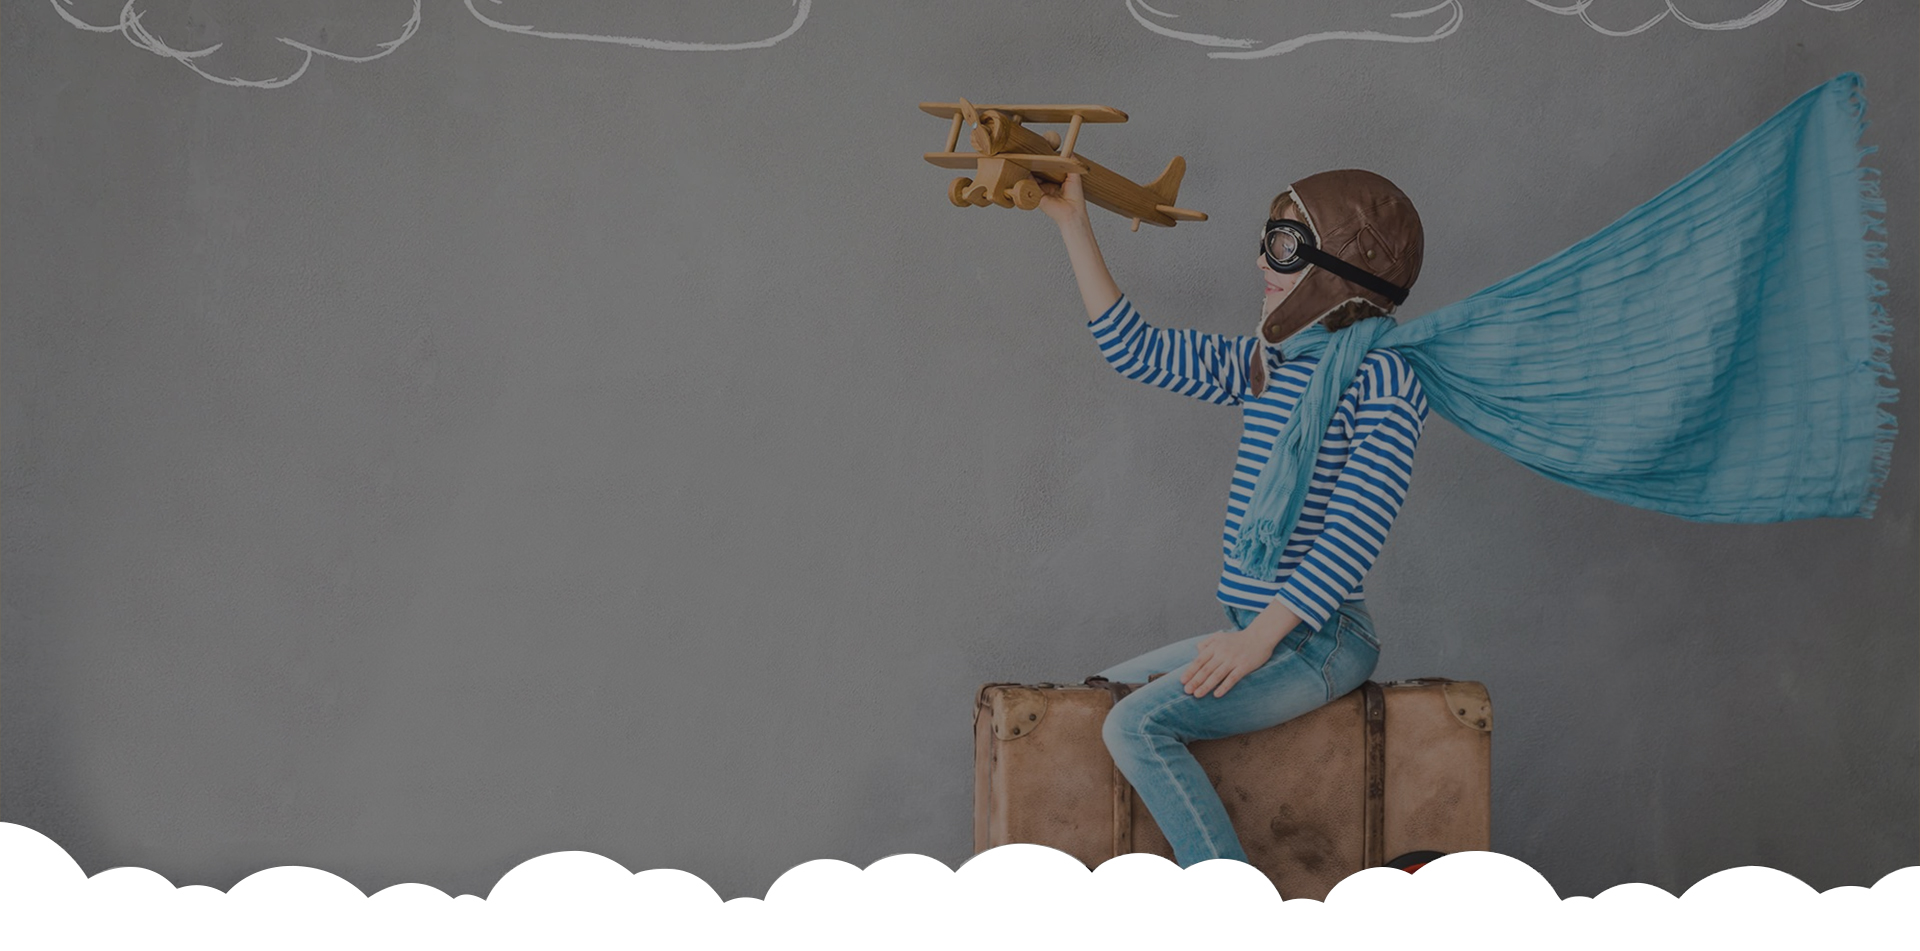
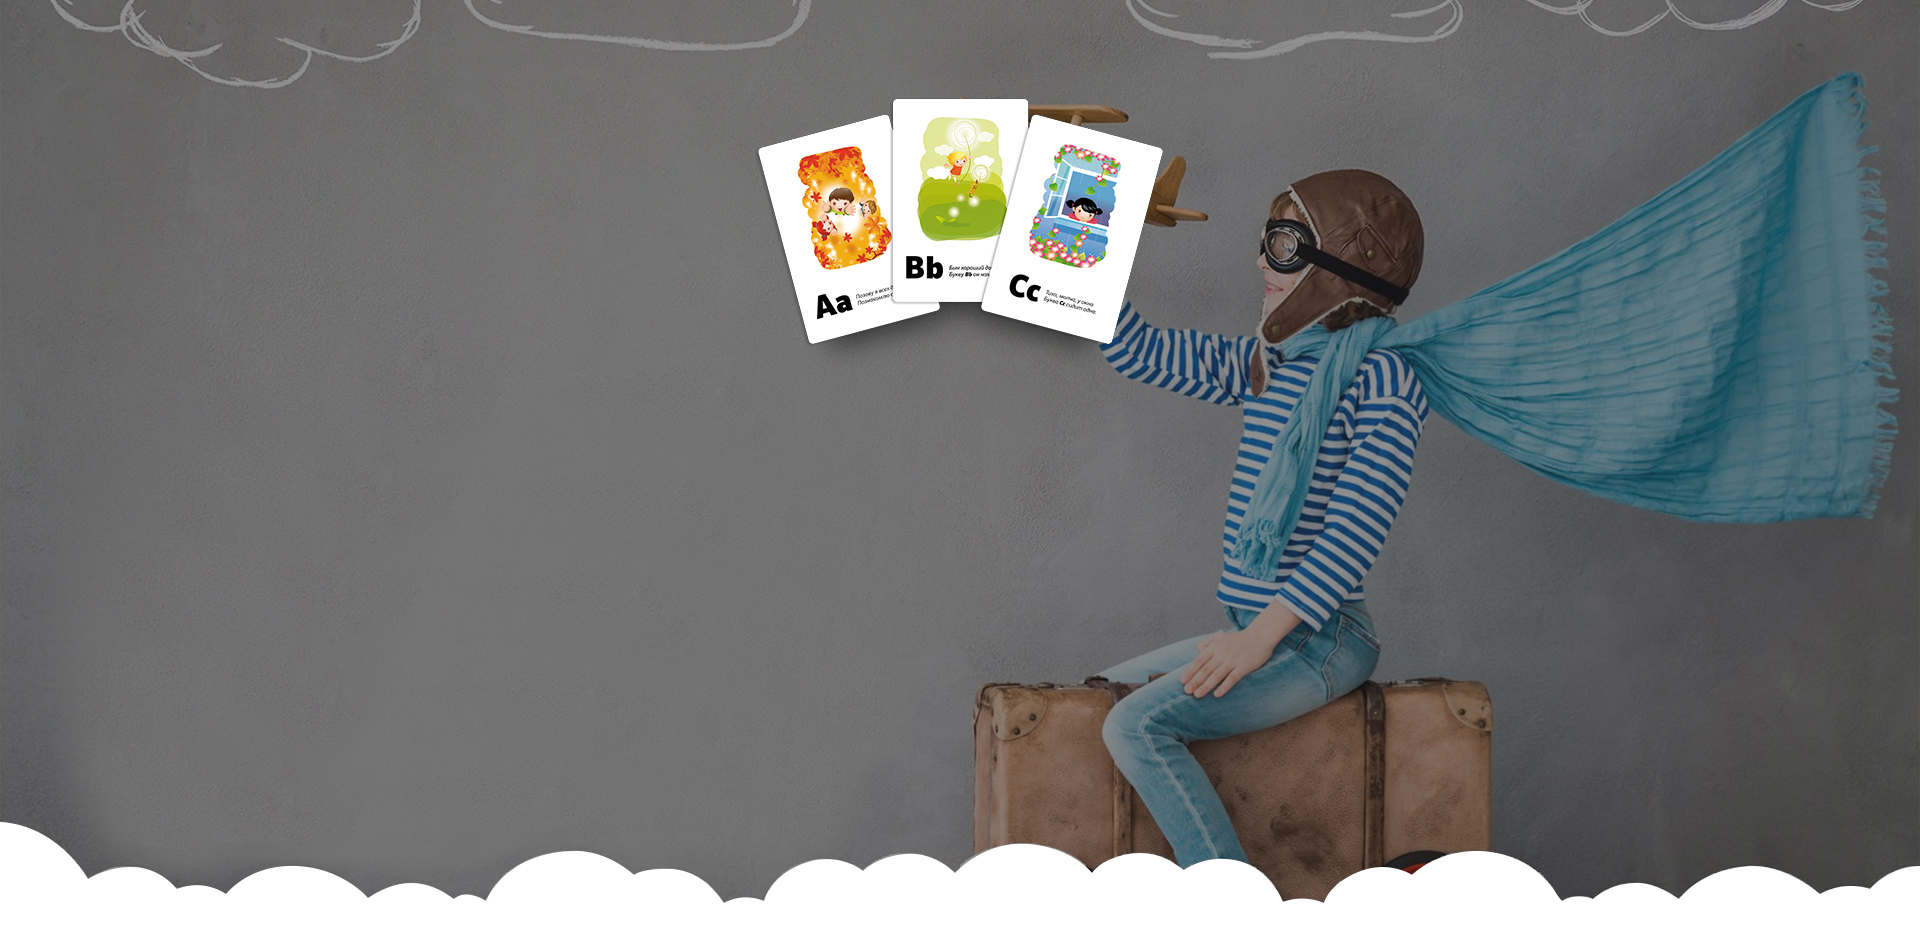
good-order--cards

Changed region(s): [[0.375, 0.0915, 0.625, 0.3659]]

diff --git a/styles/styles.css b/styles/styles.css
@@ -401,21 +401,13 @@ button[disabled="disabled"] {
 
 .good-name--cards {
   min-height: 951px;
-  padding-top: 98px;
+  padding-top: 384px;
 }
 
 .good-name--vitamins {
   min-height: 531px;
   text-align: left;
   padding-top: 105px;
-}
-
-.good-name--cards img {
-  width: auto;
-  max-width: 409px;
-  height: auto;
-  max-height: 281px;
-  margin-bottom: 11px;
 }
 
 .good-name h1 {
@@ -867,7 +859,6 @@ button[disabled="disabled"] {
 }
 
 .good-description--cards {
-  /* min-height: 780px; */
   padding-bottom: 9px;
 }
 
@@ -920,8 +911,8 @@ button[disabled="disabled"] {
 
 .good-description__picture {
   position: absolute;
-  bottom: -268px;
-  left: calc(50% - 365px);
+  bottom: -339px;
+  left: calc(50% - 390px);
   display: block;
   width: 730px;
   z-index: 2;
@@ -930,7 +921,7 @@ button[disabled="disabled"] {
 .good-description__picture img {
   width: auto;
   height: auto;
-  max-width: 730px;
+  max-width: 781px;
 }
 
 /* Good reviews */
@@ -1079,6 +1070,13 @@ button[disabled="disabled"] {
   padding-bottom: 49px;
 }
 
+.good-order--cards {
+  padding-top: 314px;
+  padding-bottom: 67px;
+  background-repeat: no-repeat;
+  background-position: 50% bottom;
+}
+
 .container--order {
   width: 1340px;
 }
@@ -1102,6 +1100,17 @@ button[disabled="disabled"] {
   background-color: #fff;
 }
 
+.good-order--cards .good-order__offer {
+  padding-top: 125px;
+  padding-bottom: 50px;
+  border-top-left-radius: 0;
+  border-bottom-left-radius: 0;
+  border-top-right-radius: 0%;
+  border-bottom-right-radius: 0%;
+  background-color: transparent;
+  color: #55476e;
+}
+
 .good-order__offer::after {
   position: absolute;
   top: 0;
@@ -1113,6 +1122,10 @@ button[disabled="disabled"] {
   background-color: #fff;
   border-radius: 50%;
   z-index: 0;
+}
+
+.good-order--cards .good-order__offer::after {
+  display: none;
 }
 
 .good-order__offer h3 {
@@ -1239,9 +1252,29 @@ button[disabled="disabled"] {
   z-index: 1;
 }
 
+.good-order--cards .offer-counter__text,
+.good-order--cards .offer-counter__content {
+  color: #55476e;
+}
+
+.good-order--cards .offer-counter__content {
+  position: absolute;
+  top: 5px;
+  right: -478px;
+  width: 65px;
+  font-size: 14px;
+  line-height: 18px;
+  text-align: left;
+  margin-top: 0;
+}
+
 .good-order__form {
   width: 580px;
   padding-top: 19px;
+}
+
+.good-order--cards .good-order__form {
+  padding-top: 105px;
 }
 
 .good-order__form-block {
@@ -1258,6 +1291,14 @@ button[disabled="disabled"] {
 .good-order__form h3 {
   text-align: left;
   margin-bottom: 16px;
+}
+
+.good-order--cards .good-order__form h3 {
+  position: absolute;
+  top: 0;
+  left: 0;
+  width: 100%;
+  text-align: center;
 }
 
 .good-order__form h3 > span {

diff --git a/pages/good-cards.html b/pages/good-cards.html
@@ -36,7 +36,6 @@
 
   <section class="good-name good-name--cards" id="good-name" style="background-image: url('../images/cards/bg.jpg');">
     <div class="container">
-      <img src="../images/cards/good_image.png" alt="Обучающие карточки">
       <h1>Обучающие карточки <span class="br">для изучения английского алфавита</span></h1>
       <p>Настольная игра &laquo;Алфавит English&raquo; для детей от&nbsp;2&nbsp;до&nbsp;8&nbsp;лет. <span class="br">Дети выучат буквы и&nbsp;хорошенько потренируют память. Приятное и&nbsp;увлекательное знакомство с&nbsp;буквами.</span></p>
       <p class="good-name__price"><strong>671 руб</strong><span class="good-name__discount">790 руб</span></p>

diff --git a/styles/color_themes/color-theme_orange.css b/styles/color_themes/color-theme_orange.css
@@ -74,8 +74,27 @@
   background-image: none;
 }
 
+.good-order--cards .good-order__offer-counter {
+  color: #ffb900;
+}
+
+.offer-counter__days::before, 
+.offer-counter__hours::before, 
+.offer-counter__minutes::before, 
+.offer-counter__seconds::before,
+.offer-counter__days::after, 
+.offer-counter__hours::after, 
+.offer-counter__minutes::after, 
+.offer-counter__seconds::after {
+  background-color: #ffffff;
+}
+
 .good-order__form {
   color: #000000;
+}
+
+.good-order__form input[type="submit"] {
+  background-color: #ffb900;
 }
 
 .good-footer {
